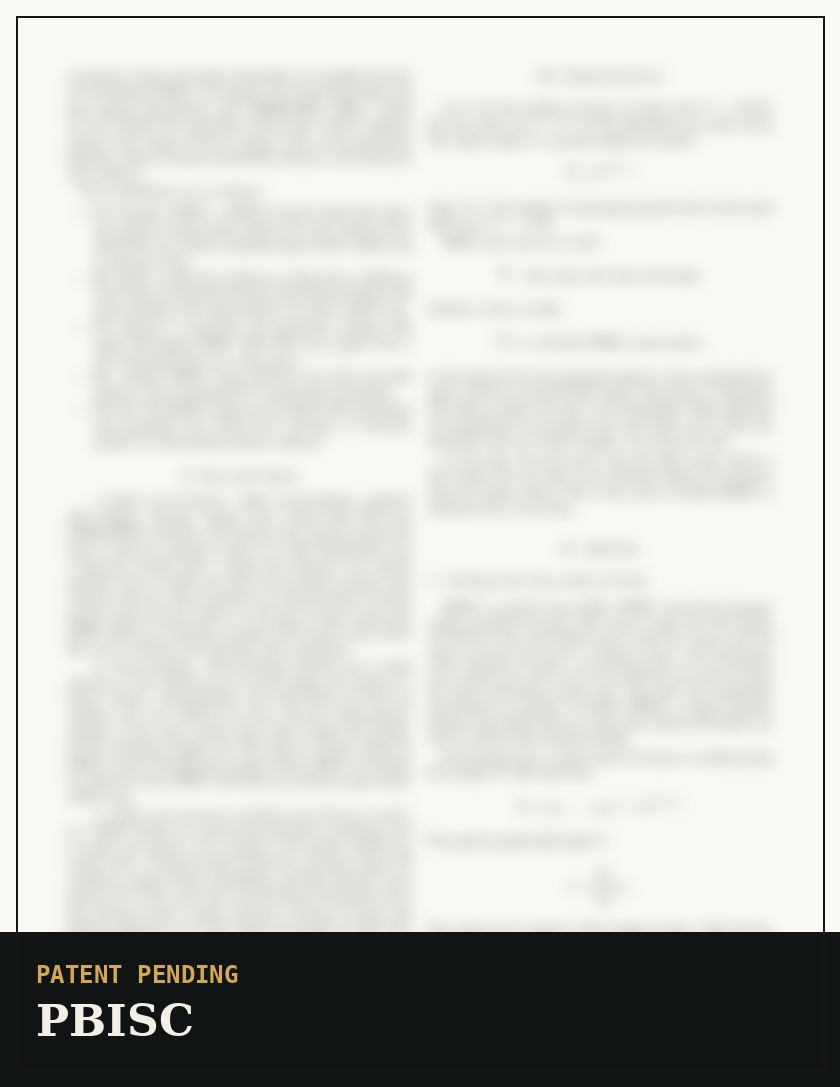
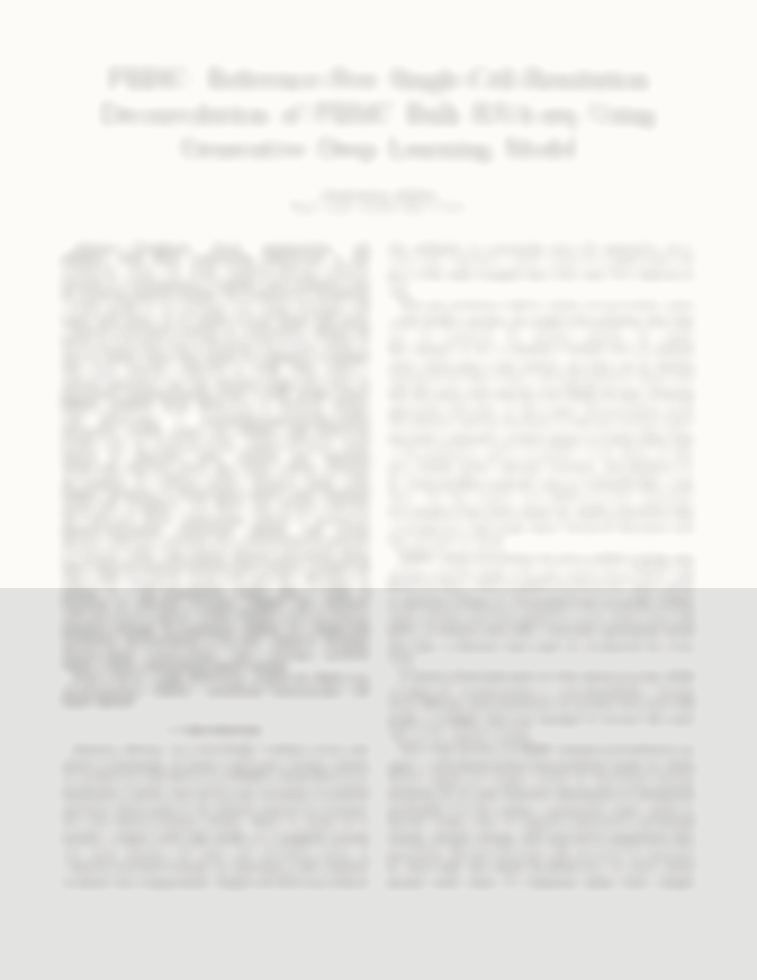
feat: update manuscript request shelf

diff --git a/papers/index.html b/papers/index.html
@@ -24,7 +24,7 @@
     >
     <link rel="stylesheet" href="../styles.css?v=ui-system-20260703">
     <link rel="stylesheet" href="../sections.css?v=ui-system-20260703">
-    <link rel="stylesheet" href="../library.css?v=ui-system-20260703">
+    <link rel="stylesheet" href="../library.css?v=paper-access-20260707">
     <link rel="stylesheet" href="../governance.css?v=records-20260624">
     <link rel="stylesheet" href="../motion.css">
   </head>
@@ -67,17 +67,17 @@
             <h1 id="papers-title">Private manuscripts.<br>Request access.</h1>
           </div>
           <div class="papers-hero-side" aria-label="Manuscript access status">
-            <span>Patent filing</span>
-            <strong>Not public yet.</strong>
-            <p>Public release is expected in roughly 2-3 months. Until then, researchers can request a private copy.</p>
+            <span>Patent filing + review</span>
+            <strong>Private for now.</strong>
+            <p>Manuscripts are under patent filing and venue review. Public release is expected after the filing window; researchers can request a private copy by email.</p>
             <button class="button button-primary" type="button" data-paper-request="General manuscript request">
               Request manuscript
             </button>
           </div>
           <div class="papers-hero-facts" aria-label="Manuscript access summary">
-            <span>3 manuscripts</span>
-            <span>Blurred previews only</span>
-            <span>Email request</span>
+            <span>BIBM full-paper review</span>
+            <span>MLCB review</span>
+            <span>Private by request</span>
           </div>
         </div>
       </section>
@@ -102,7 +102,7 @@
             <div>
               <span>03</span>
               <strong>Release</strong>
-              <p>Public posting expected in about 2-3 months.</p>
+              <p>Public posting follows filing and review timing.</p>
             </div>
           </div>
         </div>
@@ -111,22 +111,23 @@
           <article class="manuscript-card">
             <figure class="manuscript-preview">
               <img
-                src="../assets/manuscript-previews/pbisc-preview.jpg"
-                alt="Blurred preview of the PBISC manuscript workflow page"
+                src="../assets/manuscript-previews/pbisc-preview.jpg?v=paper-preview-20260707"
+                alt="Blurred preview of the PBISC manuscript first page"
               >
             </figure>
             <div class="manuscript-body">
-              <span class="status-pill">Filing in progress</span>
-              <h3>PBISC: bulk RNA-seq to immune pseudo-cells</h3>
+              <span class="status-pill">BIBM full-paper review</span>
+              <h3>PBISC: PBMC bulk RNA-seq to pseudo-single-cell matrices</h3>
+              <p class="manuscript-review-status">Reference-free single-cell-resolution deconvolution manuscript.</p>
               <p>
-                Generates PBMC pseudo-single-cell matrices from bulk RNA-seq.
+                Generates analysis-ready PBMC pseudo-single-cell count matrices from bulk RNA-seq without a matched target-cohort single-cell reference.
               </p>
               <div class="manuscript-tags" aria-label="PBISC manuscript tags">
                 <span>PBMC</span>
-                <span>Bulk to pseudo-cell</span>
-                <span>Patent filing</span>
+                <span>Bulk to single-cell</span>
+                <span>BIBM review</span>
               </div>
-              <button class="button button-primary" type="button" data-paper-request="PBISC: bulk RNA-seq to immune pseudo-cells">
+              <button class="button button-primary" type="button" data-paper-request="PBISC: PBMC bulk RNA-seq to pseudo-single-cell matrices">
                 Request manuscript
               </button>
             </div>
@@ -135,22 +136,23 @@
           <article class="manuscript-card">
             <figure class="manuscript-preview">
               <img
-                src="../assets/manuscript-previews/rna-llm-preview.jpg"
+                src="../assets/manuscript-previews/rna-llm-preview.jpg?v=paper-preview-20260707"
                 alt="Blurred preview of the RNA-LLM manuscript first page"
               >
             </figure>
             <div class="manuscript-body">
-              <span class="status-pill">By request</span>
-              <h3>RNA-LLM: transcriptomes as language-model tokens</h3>
+              <span class="status-pill">MLCB review</span>
+              <h3>RNA-LLM: transcriptomes as one language-model token</h3>
+              <p class="manuscript-review-status">Multimodal RNA-language foundation model manuscript.</p>
               <p>
-                Compresses RNA profiles into one LLM token for transcriptome-conditioned reasoning.
+                Compresses single-cell, pseudobulk, and bulk transcriptomes into one RNA token for transcriptome-conditioned biological reasoning.
               </p>
               <div class="manuscript-tags" aria-label="RNA-LLM manuscript tags">
                 <span>RNA token</span>
                 <span>Multimodal LLM</span>
-                <span>By request</span>
+                <span>MLCB review</span>
               </div>
-              <button class="button button-primary" type="button" data-paper-request="RNA-LLM: transcriptomes as language-model tokens">
+              <button class="button button-primary" type="button" data-paper-request="RNA-LLM: transcriptomes as one language-model token">
                 Request manuscript
               </button>
             </div>
@@ -159,22 +161,23 @@
           <article class="manuscript-card">
             <figure class="manuscript-preview">
               <img
-                src="../assets/manuscript-previews/sle-cr-bench-preview.jpg"
+                src="../assets/manuscript-previews/sle-cr-bench-preview.jpg?v=paper-preview-20260707"
                 alt="Blurred preview of the SLE-CR Bench manuscript overview page"
               >
             </figure>
             <div class="manuscript-body">
-              <span class="status-pill">By request</span>
-              <h3>SLE-CR Bench: RNA evidence to medical-style reports</h3>
+              <span class="status-pill">MLCB two-page paper review</span>
+              <h3>Patient RNA Report Bench: evidence to medical-style reports</h3>
+              <p class="manuscript-review-status">SLE-CR Bench manuscript for RNA-seq LLM interpretation.</p>
               <p>
-                Tests whether curated patient RNA evidence can support grounded medical-style reports.
+                Tests whether curated RNA-seq evidence cards can support calibrated, evidence-cited, medically bounded report generation.
               </p>
               <div class="manuscript-tags" aria-label="SLE-CR Bench manuscript tags">
                 <span>Patient RNA report</span>
                 <span>Calibration</span>
-                <span>By request</span>
+                <span>MLCB review</span>
               </div>
-              <button class="button button-primary" type="button" data-paper-request="SLE-CR Bench: RNA evidence to medical-style reports">
+              <button class="button button-primary" type="button" data-paper-request="Patient RNA Report Bench: evidence to medical-style reports">
                 Request manuscript
               </button>
             </div>
@@ -232,9 +235,9 @@
               Manuscript
               <select name="paper" required>
                 <option value="General manuscript request">General manuscript request</option>
-                <option value="PBISC: bulk RNA-seq to immune pseudo-cells">PBISC: bulk RNA-seq to immune pseudo-cells</option>
-                <option value="RNA-LLM: transcriptomes as language-model tokens">RNA-LLM: transcriptomes as language-model tokens</option>
-                <option value="SLE-CR Bench: RNA evidence to medical-style reports">SLE-CR Bench: RNA evidence to medical-style reports</option>
+                <option value="PBISC: PBMC bulk RNA-seq to pseudo-single-cell matrices">PBISC: PBMC bulk RNA-seq to pseudo-single-cell matrices</option>
+                <option value="RNA-LLM: transcriptomes as one language-model token">RNA-LLM: transcriptomes as one language-model token</option>
+                <option value="Patient RNA Report Bench: evidence to medical-style reports">Patient RNA Report Bench: evidence to medical-style reports</option>
               </select>
             </label>
             <label class="form-wide">

diff --git a/library.css b/library.css
@@ -191,7 +191,7 @@
   font-weight: 700;
   line-height: 0.95;
   margin: 0;
-  max-width: 10ch;
+  max-width: 11ch;
 }
 
 .papers-hero-side {
@@ -422,7 +422,9 @@
   align-self: flex-start;
   background: var(--ink);
   color: var(--paper);
+  line-height: 1.2;
   margin-bottom: 1rem;
+  max-width: 100%;
   padding: 0.3rem 0.55rem;
 }
 
@@ -558,11 +560,21 @@
 
 .manuscript-body h3 {
   font-size: clamp(1.18rem, 1.7vw, 1.55rem);
+  line-height: 1.08;
+  margin-bottom: 0.65rem;
 }
 
 .manuscript-body p,
 .manuscript-meta dd {
   color: var(--ink-soft);
+}
+
+.manuscript-body .manuscript-review-status {
+  border-left: 3px solid var(--red);
+  font-size: 0.92rem;
+  line-height: 1.35;
+  margin: 0 0 0.9rem;
+  padding-left: 0.7rem;
 }
 
 .manuscript-body p {

diff --git a/index.html b/index.html
@@ -28,7 +28,7 @@
     >
     <link rel="stylesheet" href="styles.css?v=ui-system-20260703">
     <link rel="stylesheet" href="sections.css?v=ui-system-20260703">
-    <link rel="stylesheet" href="library.css?v=ui-system-20260703">
+    <link rel="stylesheet" href="library.css?v=paper-access-20260707">
     <link rel="stylesheet" href="collaborators.css">
     <link rel="stylesheet" href="spatial.css?v=ui-system-20260703">
     <link rel="stylesheet" href="governance.css?v=records-20260624">

diff --git a/bylaws/index.html b/bylaws/index.html
@@ -25,7 +25,7 @@
     >
     <link rel="stylesheet" href="../styles.css?v=ui-system-20260703">
     <link rel="stylesheet" href="../sections.css?v=ui-system-20260703">
-    <link rel="stylesheet" href="../library.css?v=ui-system-20260703">
+    <link rel="stylesheet" href="../library.css?v=paper-access-20260707">
     <link rel="stylesheet" href="../governance.css?v=records-20260624">
     <link rel="stylesheet" href="../motion.css">
   </head>

diff --git a/disclosures/index.html b/disclosures/index.html
@@ -25,7 +25,7 @@
     >
     <link rel="stylesheet" href="../styles.css?v=ui-system-20260703">
     <link rel="stylesheet" href="../sections.css?v=ui-system-20260703">
-    <link rel="stylesheet" href="../library.css?v=ui-system-20260703">
+    <link rel="stylesheet" href="../library.css?v=paper-access-20260707">
     <link rel="stylesheet" href="../governance.css?v=records-20260624">
     <link rel="stylesheet" href="../motion.css">
   </head>

diff --git a/governance/index.html b/governance/index.html
@@ -25,7 +25,7 @@
     >
     <link rel="stylesheet" href="../styles.css?v=ui-system-20260703">
     <link rel="stylesheet" href="../sections.css?v=ui-system-20260703">
-    <link rel="stylesheet" href="../library.css?v=ui-system-20260703">
+    <link rel="stylesheet" href="../library.css?v=paper-access-20260707">
     <link rel="stylesheet" href="../governance.css?v=records-20260624">
     <link rel="stylesheet" href="../motion.css">
   </head>

diff --git a/notes/index.html b/notes/index.html
@@ -24,7 +24,7 @@
     >
     <link rel="stylesheet" href="../styles.css?v=ui-system-20260703">
     <link rel="stylesheet" href="../sections.css?v=ui-system-20260703">
-    <link rel="stylesheet" href="../library.css?v=ui-system-20260703">
+    <link rel="stylesheet" href="../library.css?v=paper-access-20260707">
     <link rel="stylesheet" href="../governance.css?v=records-20260624">
     <link rel="stylesheet" href="../motion.css">
   </head>

diff --git a/research-integrity/index.html b/research-integrity/index.html
@@ -25,7 +25,7 @@
     >
     <link rel="stylesheet" href="../styles.css?v=ui-system-20260703">
     <link rel="stylesheet" href="../sections.css?v=ui-system-20260703">
-    <link rel="stylesheet" href="../library.css?v=ui-system-20260703">
+    <link rel="stylesheet" href="../library.css?v=paper-access-20260707">
     <link rel="stylesheet" href="../governance.css?v=records-20260624">
     <link rel="stylesheet" href="../motion.css">
   </head>
